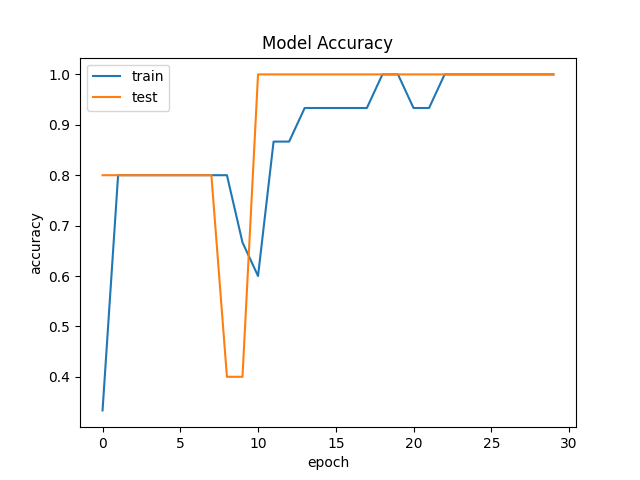
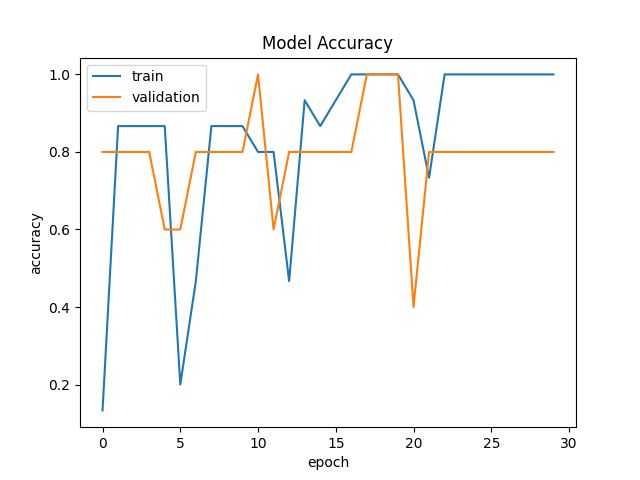
fix thread

diff --git a/src/train/utils.py b/src/train/utils.py
@@ -73,13 +73,13 @@ def get_dataset():
     non_img_arr = []
     can_img_arr = []
     print("Reading non_can_img")
-    for img in non_can_img[:100]:  # FIXME: remove [:100]
+    for img in non_can_img[:10]:  # FIXME: remove [:100]
         n_img = cv2.imread(img, cv2.IMREAD_COLOR)
         n_img_size = cv2.resize(n_img, (50, 50), interpolation=cv2.INTER_LINEAR)
         non_img_arr.append([n_img_size, 0])
 
     print("Reading can_img")
-    for img in can_img[:100]:  # FIXME: remove [:100]
+    for img in can_img[:10]:  # FIXME: remove [:100]
         c_img = cv2.imread(img, cv2.IMREAD_COLOR)
         c_img_size = cv2.resize(c_img, (50, 50), interpolation=cv2.INTER_LINEAR)
         can_img_arr.append([c_img_size, 1])
@@ -210,6 +210,8 @@ def train_client(global_round, model_path):
             "current_global_round",
             "train_loss",
             "train_acc",
+            "val_acc",
+            "val_loss",
             "train_loss_list",
             "train_acc_list",
             "val_acc_list",
@@ -223,7 +225,7 @@ def train_client(global_round, model_path):
         client.api_url + "/client/params/sends",
         json={"global_round": global_round, "model_path": model_path},
     )
-    print("/center/params/receives", res.json())
+    print("/client/params/sends", res.json())
     print(
         f" \n Results after {local_ep} times of local training and {global_round} times global training:"
     )
@@ -238,7 +240,7 @@ def train_client(global_round, model_path):
     plt.title("Model Accuracy")
     plt.ylabel("accuracy")
     plt.xlabel("epoch")
-    plt.legend(["train", "test"], loc="upper left")
+    plt.legend(["train", "validation"], loc="upper left")
     plt.savefig("src/train/results/client/model_acc_global_round_%s.png" % global_round)
     plt.close()
 
@@ -248,7 +250,7 @@ def train_client(global_round, model_path):
     plt.title("Model Loss")
     plt.ylabel("loss")
     plt.xlabel("epoch")
-    plt.legend(["train", "test"], loc="upper left")
+    plt.legend(["train", "validation"], loc="upper left")
     plt.savefig(
         "src/train/results/client/model_loss_global_round_%s.png" % global_round
     )
@@ -306,7 +308,7 @@ def send_params_to_clients(center, global_round=None):
             center.api_url + "/center/params/sends",
             json={"global_round": global_round, "model_path": model_path},
         )
-        print("/center/params/sends", res)
+        print("/center/params/sends", res.json())
 
 
 def train_center(global_round):
@@ -318,17 +320,69 @@ def train_center(global_round):
     if global_round > 1:
         # Show train loss, train acc and save them to db of the global training before
         clients_result = Device.objects.filter(is_center=False).values_list(
-            "train_acc", "train_loss"
+            "train_acc", "train_loss", "val_acc", "val_loss"
         )
-        train_acc_list, train_loss_list = list(zip(*clients_result))
-        avg_train_acc = sum(train_acc_list) / len(train_acc_list)
-        avg_train_loss = sum(train_loss_list) / len(train_loss_list)
+        (
+            local_train_acc_list,
+            local_train_loss_list,
+            local_val_acc_list,
+            local_val_loss_list,
+        ) = list(zip(*clients_result))
+        avg_train_acc = sum(local_train_acc_list) / len(local_train_acc_list)
+        avg_train_loss = sum(local_train_loss_list) / len(local_train_loss_list)
+        avg_val_acc = sum(local_val_acc_list) / len(local_val_acc_list)
+        avg_val_loss = sum(local_val_loss_list) / len(local_val_loss_list)
         print(f" \nAvg Training Stats after {global_round - 1} global rounds:")
         print(f"Training Loss : {avg_train_loss}")
         print("Train Accuracy: %s \n" % avg_train_acc)
-        center.train_acc = avg_train_acc
-        center.train_loss = avg_train_loss
         center.current_global_round = global_round
-        center.save(update_fields=["train_acc", "train_loss", "current_global_round"])
+
+        train_acc_list, train_loss_list, val_acc_list, val_loss_list = [], [], [], []
+        # train acc
+        train_acc_list_str = center.train_acc_list
+        if train_acc_list_str:
+            train_acc_list = json.loads(train_acc_list_str)
+        train_acc_list.append(avg_train_acc)
+        train_acc_list_str = json.dumps(train_acc_list)
+        center.train_acc_list = train_acc_list_str
+        center.train_acc = avg_train_acc
+        # train loss
+        train_loss_list_str = center.train_loss_list
+        if train_loss_list_str:
+            train_loss_list = json.loads(train_loss_list_str)
+        train_loss_list.append(avg_train_loss)
+        train_loss_list_str = json.dumps(train_loss_list)
+        center.train_loss_list = train_loss_list_str
+        center.train_loss = avg_train_loss
+        # validation accuracy
+        val_acc_list_str = center.val_acc_list
+        if val_acc_list_str:
+            val_acc_list = json.loads(val_acc_list_str)
+        val_acc_list.append(avg_val_acc)
+        val_acc_list_str = json.dumps(val_acc_list)
+        center.val_acc_list = val_acc_list_str
+        center.val_acc = avg_val_acc
+        # validation loss
+        val_loss_list_str = center.val_loss_list
+        if val_loss_list_str:
+            val_loss_list = json.loads(val_loss_list_str)
+        val_loss_list.append(avg_val_loss)
+        val_loss_list_str = json.dumps(val_loss_list)
+        center.val_loss_list = val_loss_list_str
+        center.val_loss = avg_val_loss
+
+        center.save(
+            update_fields=[
+                "train_acc",
+                "train_loss",
+                "val_acc",
+                "val_loss",
+                "current_global_round",
+                "train_loss_list",
+                "train_acc_list",
+                "val_acc_list",
+                "val_loss_list",
+            ]
+        )
 
     send_params_to_clients(center, global_round)

diff --git a/src/management/commands/auto_train.py b/src/management/commands/auto_train.py
@@ -1,9 +1,11 @@
+import json
+
+import matplotlib.pyplot as plt
 from django.core.management.base import BaseCommand
 from django.utils import timezone
 
 from ...device.models import Device
 from ...train.utils import send_params_to_clients
-import matplotlib.pyplot as plt
 
 
 class Command(BaseCommand):
@@ -13,17 +15,71 @@ class Command(BaseCommand):
         send_params_to_clients(center=center)
         # Show train loss, train acc and save them to db of the last global training
         clients_result = Device.objects.filter(is_center=False).values_list(
-            "train_acc", "train_loss"
+            "train_acc", "train_loss", "val_acc", "val_loss"
         )
         print("clients_result:", clients_result)
         if clients_result:
-            train_acc_list, train_loss_list = list(zip(*clients_result))
-            avg_train_acc = sum(train_acc_list) / len(train_acc_list)
-            avg_train_loss = sum(train_loss_list) / len(train_loss_list)
+            (
+                local_train_acc_list,
+                local_train_loss_list,
+                local_val_acc_list,
+                local_val_loss_list,
+            ) = list(zip(*clients_result))
+            avg_train_acc = sum(local_train_acc_list) / len(local_train_acc_list)
+            avg_train_loss = sum(local_train_loss_list) / len(local_train_loss_list)
+            avg_val_acc = sum(local_val_acc_list) / len(local_val_acc_list)
+            avg_val_loss = sum(local_val_loss_list) / len(local_val_loss_list)
+
             center = Device.objects.get(is_center=True)
             center.train_acc = avg_train_acc
             center.train_loss = avg_train_loss
-            center.save(update_fields=["train_acc", "train_loss"])
+
+            train_acc_list, train_loss_list, val_acc_list, val_loss_list = (
+                [],
+                [],
+                [],
+                [],
+            )
+            # train acc
+            train_acc_list_str = center.train_acc_list
+            if train_acc_list_str:
+                train_acc_list = json.loads(train_acc_list_str)
+            train_acc_list.append(avg_train_acc)
+            train_acc_list_str = json.dumps(train_acc_list)
+            center.train_acc_list = train_acc_list_str
+            # train loss
+            train_loss_list_str = center.train_loss_list
+            if train_loss_list_str:
+                train_loss_list = json.loads(train_loss_list_str)
+            
+            train_loss_list_str = json.dumps(train_loss_list)
+            center.train_loss_list = train_loss_list_str
+            # validation accuracy
+            val_acc_list_str = center.val_acc_list
+            if val_acc_list_str:
+                val_acc_list = json.loads(val_acc_list_str)
+            val_acc_list.append(avg_val_acc)
+            val_acc_list_str = json.dumps(val_acc_list)
+            center.val_acc_list = val_acc_list_str
+            # validation loss
+            val_loss_list_str = center.val_loss_list
+            if val_loss_list_str:
+                val_loss_list = json.loads(val_loss_list_str)
+            val_loss_list.append(avg_val_loss)
+            val_loss_list_str = json.dumps(val_loss_list)
+            center.val_loss_list = val_loss_list_str
+
+            center.save(
+                update_fields=[
+                    "train_acc",
+                    "train_loss",
+                    "train_acc_list",
+                    "train_loss_list",
+                    "val_acc_list",
+                    "val_loss_list",
+                ]
+            )
+
             end_time = timezone.now()
             print("\n Total Run Time: %s" % (end_time - start_time))
             print(f" \n Results after {center.epochs} global rounds of training:")
@@ -32,12 +88,13 @@ class Command(BaseCommand):
 
             time_str = end_time.strftime("%d-%m-%Y_%H-%M-%S")
             # accuracy
-            train_acc_list = train_acc_list.append(avg_train_acc)
+            print("train_acc_list", train_acc_list)
             plt.plot(train_acc_list)
+            plt.plot(val_acc_list)
             plt.title("Model Accuracy")
             plt.ylabel("accuracy")
             plt.xlabel("epoch")
-            plt.legend(["train"], loc="upper left")
+            plt.legend(["train", "validation"], loc="upper left")
             plt.savefig(
                 "src/train/results/center/train_acc_E[%s]_%s.png"
                 % (center.epochs, time_str)
@@ -45,12 +102,12 @@ class Command(BaseCommand):
             plt.close()
 
             # loss
-            train_loss_list = train_loss_list.append(avg_train_loss)
             plt.plot(train_loss_list)
+            plt.plot(val_loss_list)
             plt.title("Model Loss")
             plt.ylabel("loss")
             plt.xlabel("epoch")
-            plt.legend(["train"], loc="upper left")
+            plt.legend(["train", "validation"], loc="upper left")
             plt.savefig(
                 "src/train/results/center/train_loss_E[%s]_%s.png"
                 % (center.epochs, time_str)

diff --git a/src/device/views.py b/src/device/views.py
@@ -1,4 +1,4 @@
-from concurrent.futures import ThreadPoolExecutor, as_completed
+from concurrent.futures import ProcessPoolExecutor
 
 import requests
 from django.conf import settings
@@ -7,7 +7,7 @@ from rest_framework import status, views
 from rest_framework.response import Response
 
 from ..train.utils import train_center, train_client
-from . import ErrorCode, EventType, EventStatus
+from . import ErrorCode, EventStatus, EventType
 from .models import Device, Event
 from .serializers import (
     CenterReceivesParamsInputSerializer,
@@ -20,6 +20,21 @@ from .serializers import (
 class CenterSendsParams(views.APIView):
     @classmethod
     def post(self, request, **kwargs):
+        def send_params_to_client(client):
+            print("Send params to client %s with url %s" % (client.id, client.api_url))
+            Event.objects.create(
+                event_type=EventType.CENTER_SENT_PARAMS,
+                device_id=client.id,
+                global_round=global_round,
+                model_path=model_path,
+                status=EventStatus.STARTED,
+            )
+            res = requests.post(
+                client.api_url + "/client/params/receives",
+                json={"global_round": global_round, "model_path": model_path},
+            )
+            print("/client/params/receives", res.json())
+
         data = request.data
         serializer = CenterSendsParamsInputSerializer(data=data)
         if serializer.is_valid():
@@ -41,26 +56,10 @@ class CenterSendsParams(views.APIView):
             # STEP 3: Center send params to clients
             print("STEP 3", timezone.now())
 
-            with ThreadPoolExecutor(
-                max_workers=200
-            ) as executor:  # FIXME: fix each client is 1 thread
+            with ProcessPoolExecutor() as executor:
                 for client in clients:
-                    print(
-                        "Send params to client %s with url %s"
-                        % (client.id, client.api_url)
-                    )
-                    Event.objects.create(
-                        event_type=EventType.CENTER_SENT_PARAMS,
-                        device_id=client.id,
-                        global_round=global_round,
-                        model_path=model_path,
-                        status=EventStatus.STARTED,
-                    )
-                    res = requests.post(
-                        client.api_url + "/client/params/receives",
-                        json={"global_round": global_round, "model_path": model_path},
-                    )
-                    print("/client/params/receives", res.json())
+                    executor.submit(send_params_to_client, client)
+
             # if res.ok:
             #     # FIXME: divide to fail case and success case with is_success field
             print("Sent params to clients")
@@ -170,6 +169,17 @@ class CenterGetClientParams(views.APIView):
 class ClientSendsParams(views.APIView):
     @classmethod
     def post(self, request, **kwargs):
+        def send_params_to_center(center):
+            res = requests.post(
+                center.api_url + "/center/params/receives",
+                json={
+                    "client_id": settings.CLIENT_ID,
+                    "global_round": global_round,
+                    "model_path": model_path,
+                },
+            )
+            print("/center/params/receives", res.json())
+
         data = request.data
         serializer = ClientSendsParamsInputSerializer(data=data)
         if serializer.is_valid():
@@ -179,16 +189,8 @@ class ClientSendsParams(views.APIView):
             global_round = data["global_round"]
             model_path = data["model_path"]
             center = Device.objects.filter(is_center=True).first()
-            with ThreadPoolExecutor(max_workers=200) as executor:
-                res = requests.post(
-                    center.api_url + "/center/params/receives",
-                    json={
-                        "client_id": settings.CLIENT_ID,
-                        "global_round": global_round,
-                        "model_path": model_path,
-                    },
-                )
-                print("/center/params/receives", res.json())
+            with ProcessPoolExecutor() as executor:
+                executor.submit(send_params_to_center, center)
             return Response(
                 {"detail": "Sent params to center successfully"},
                 status=status.HTTP_200_OK,
